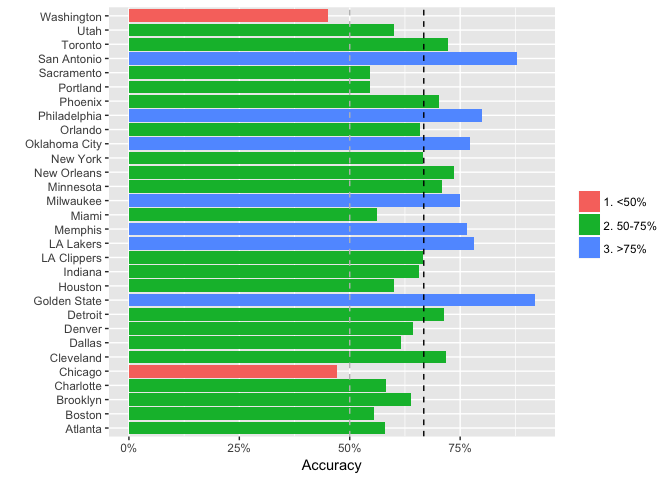
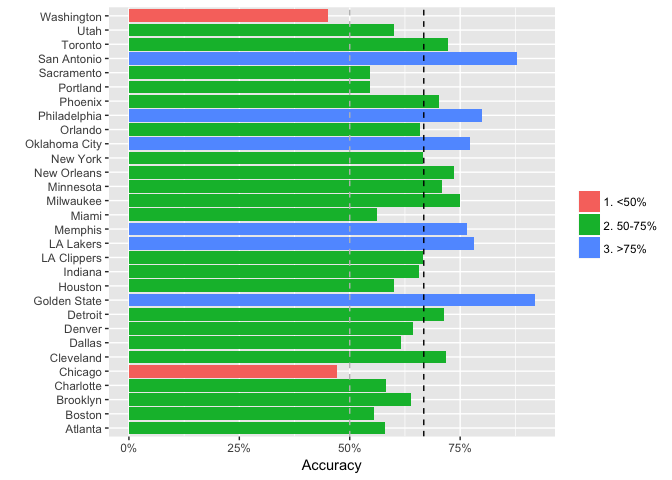
updating data

Changed region(s): [[0.1875, 0.4062, 0.6875, 0.4375]]

diff --git a/readme.md b/readme.md
@@ -329,7 +329,7 @@ mutate(game_level, match=as.numeric(selected_team_win==d_pred_selected_team_win)
   group_by(team) %>%
   summarise(team_match_percent=mean(match)) %>%
   mutate(miss=ifelse(team_match_percent<.5, "1. <50%", 
-                     ifelse(team_match_percent<.75, "2. 50-75%", "3. >75%"))) %>%
+                     ifelse(team_match_percent<=.75, "2. 50-75%", "3. >75%"))) %>%
   ggplot(aes(team, team_match_percent, fill=factor(miss))) + geom_bar(stat="identity") + coord_flip() +
   xlab("") + ylab("Accuracy") + theme(legend.title = element_blank()) + 
   geom_hline(yintercept = overall_match_rate, linetype=2, color='black') +
